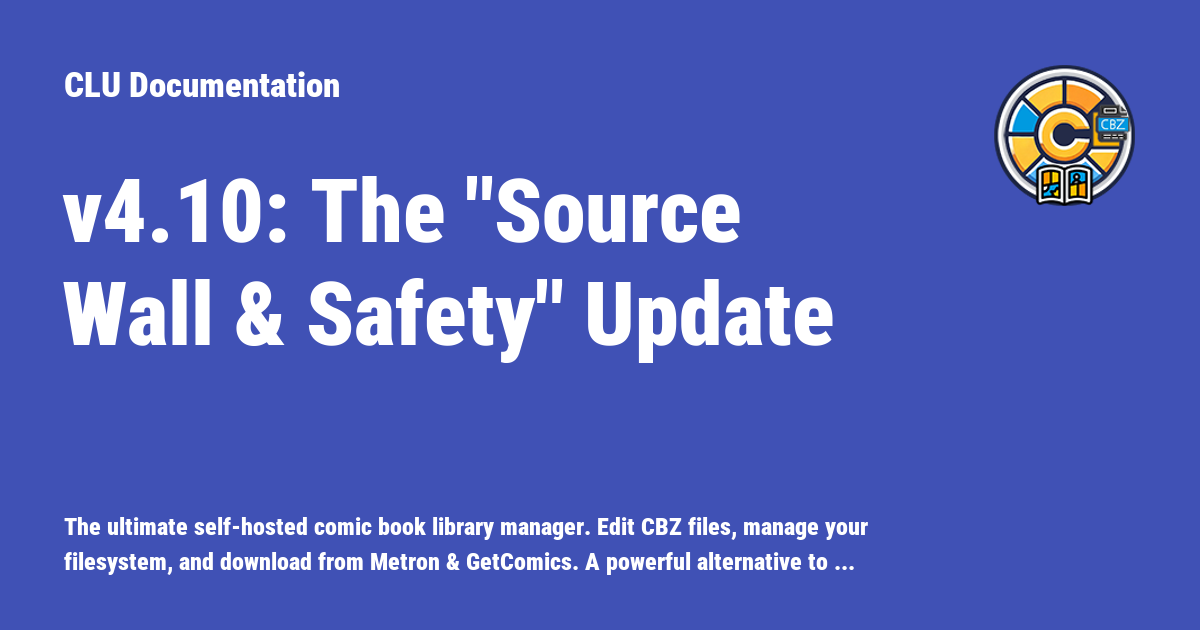
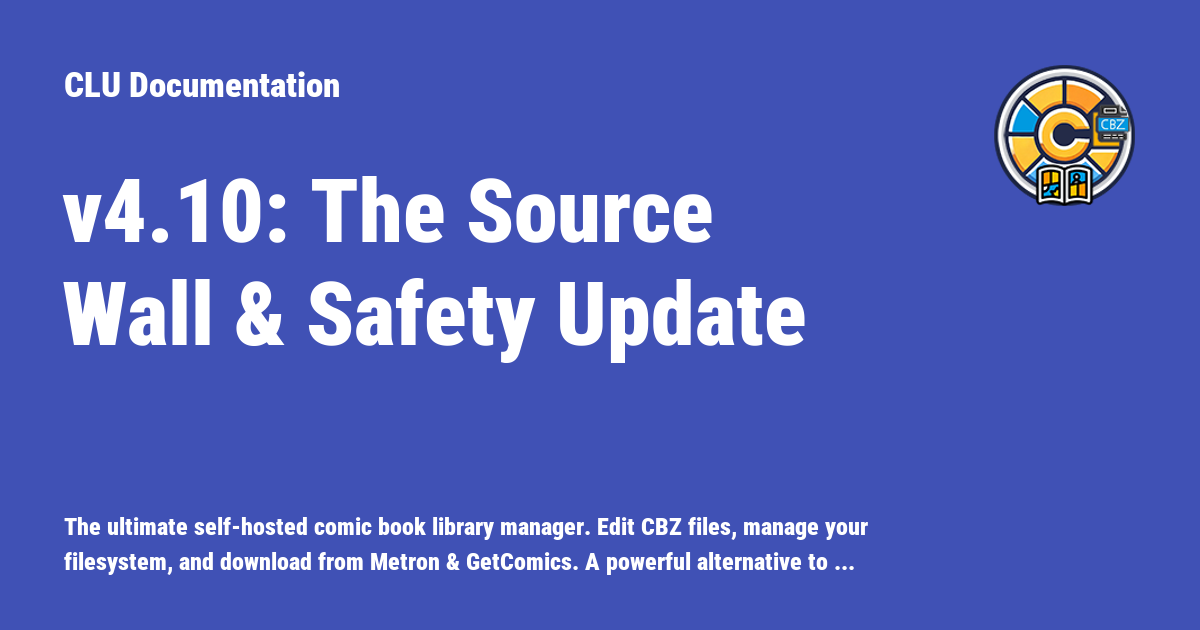
v4.10 updates

Changed region(s): [[0.4317, 0.4222, 0.7092, 0.573], [0.37, 0.2714, 0.6167, 0.3921]]

diff --git a/docs/blog/posts/source-wall-and-safety-update.md b/docs/blog/posts/source-wall-and-safety-update.md
@@ -7,7 +7,7 @@ authors:
   - allaboutduncan
 ---
 
-# v4.10: The "Source Wall & Safety" Update
+# v4.10 - The Source Wall & Safety Update
 
 This release focuses on giving you better visibility and more control over your library’s metadata, improving the "quality of life" for file management, and ensuring that our external API integrations (thanks Metron) are running as lean as possible.
 
